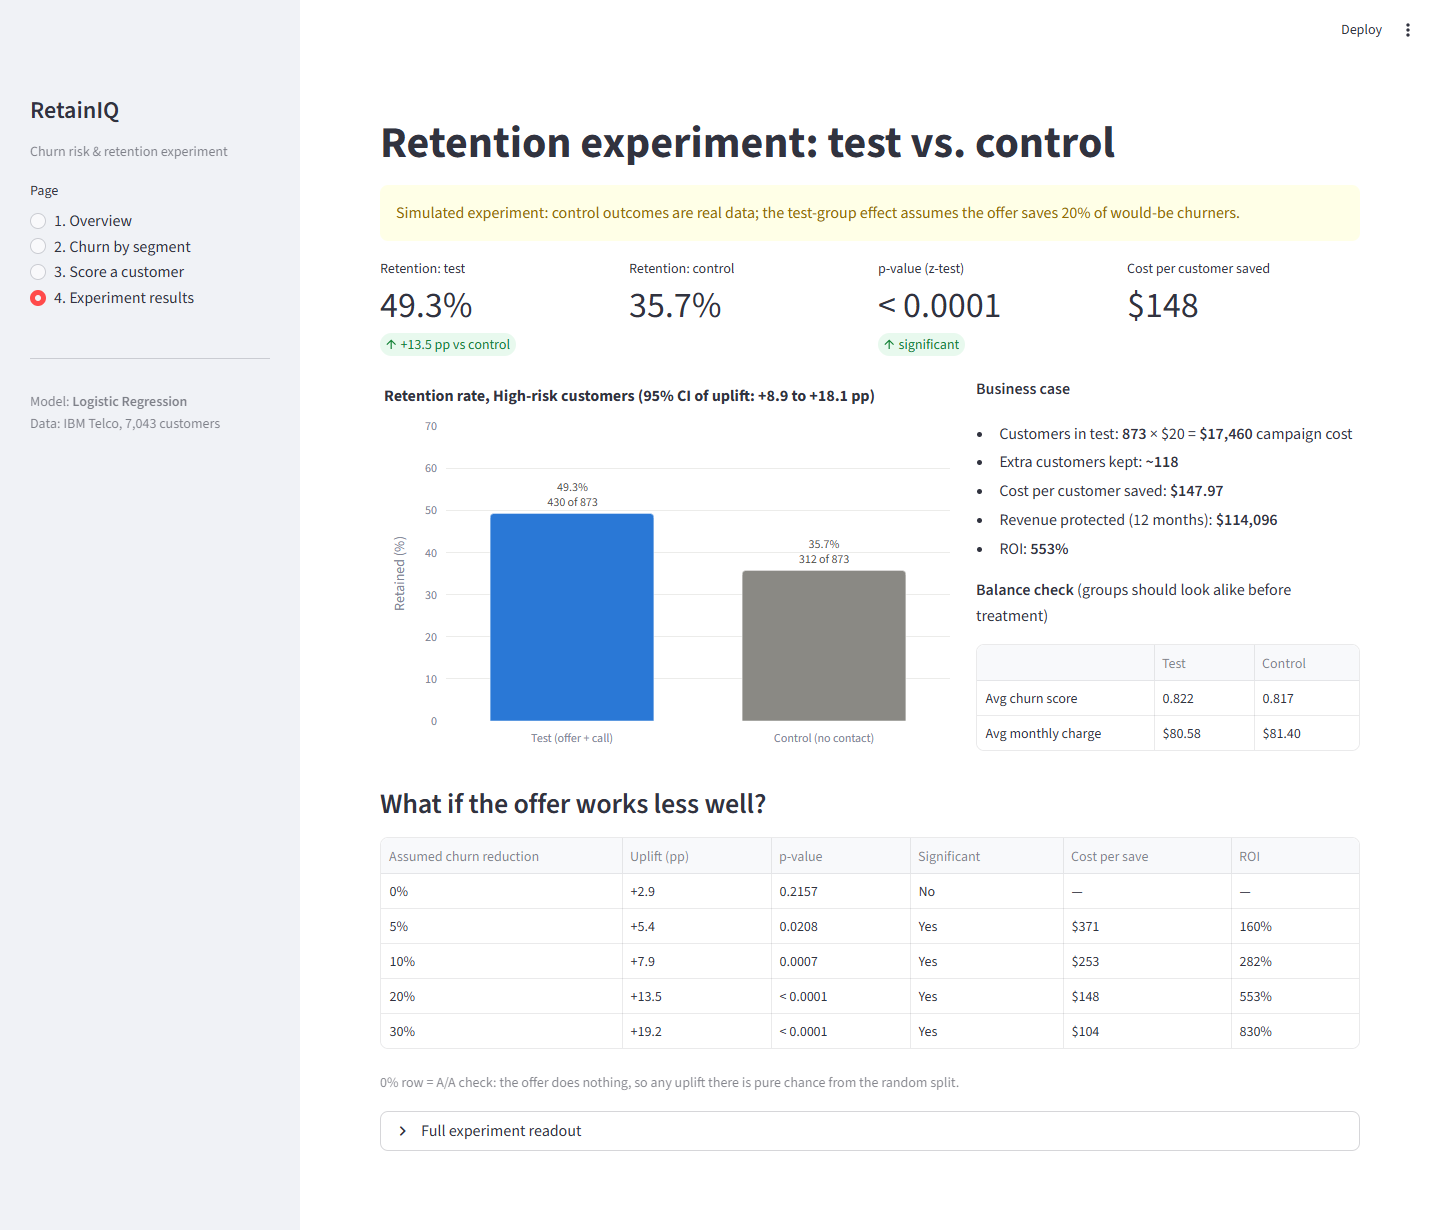
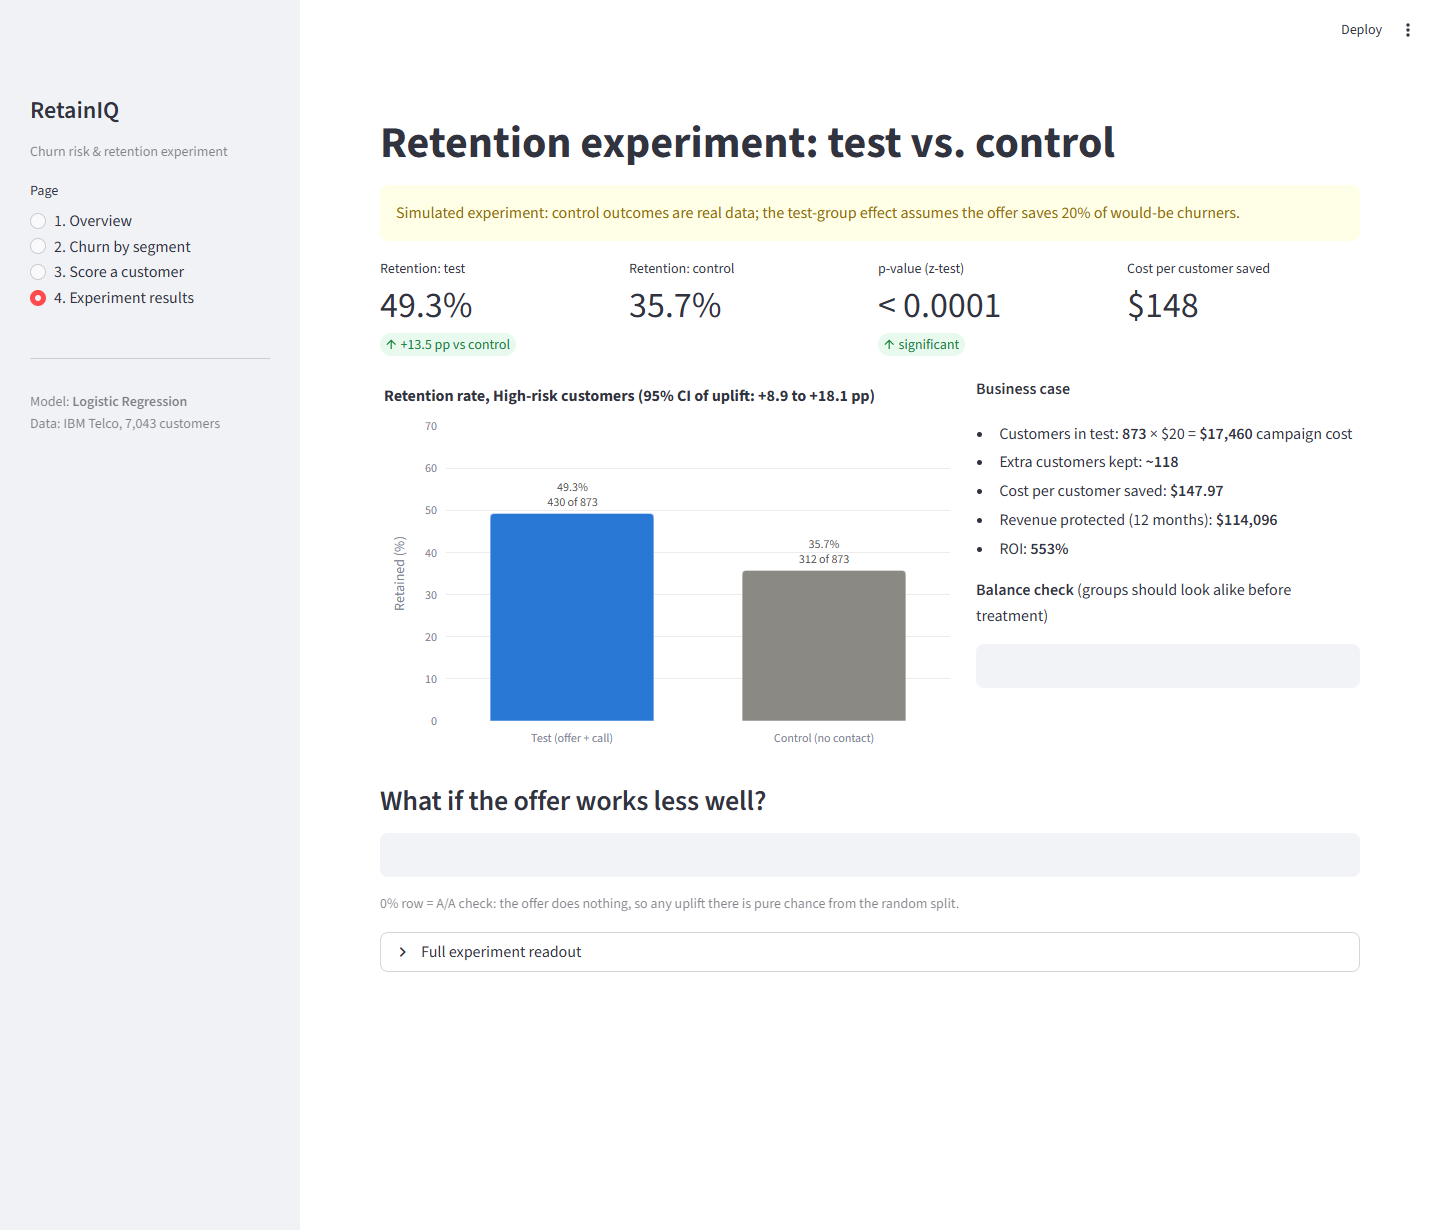
Make dashboard deployable to Streamlit Community Cloud
- Pin exact package versions so the saved model loads on the server
- Replace removed use_container_width with width="stretch"
- Fix gauge clipping, refresh screenshots, add repo URL to README

diff --git a/app/streamlit_app.py b/app/streamlit_app.py
@@ -106,7 +106,7 @@ if page.startswith("1"):
             hovertemplate="%{x} risk<br>%{y:,} customers<extra></extra>"))
         fig.update_layout(title="Customers per risk group (label shows actual churn rate)")
         fig.update_yaxes(title="Customers", range=[0, seg["customers"].max() * 1.3])
-        st.plotly_chart(style(fig), use_container_width=True)
+        st.plotly_chart(style(fig), width="stretch")
     with right:
         st.markdown("**What each group means**")
         st.markdown(
@@ -119,7 +119,7 @@ if page.startswith("1"):
         st.dataframe(seg[["risk_group", "customers", "actual_churn_rate_pct", "share_of_all_churners_pct"]]
                      .rename(columns={"risk_group": "Risk", "customers": "Customers",
                                       "actual_churn_rate_pct": "Churn %", "share_of_all_churners_pct": "% of churners"})
-                     .round(1), hide_index=True, use_container_width=True)
+                     .round(1), hide_index=True, width="stretch")
 
 # --------------------------------------------------------------------- page 2
 elif page.startswith("2"):
@@ -130,12 +130,12 @@ elif page.startswith("2"):
     st.caption(f"{len(df):,} customers selected")
     a, b = st.columns(2)
     a.plotly_chart(churn_bar(df, "Contract", ["Month-to-month", "One year", "Two year"], "By contract type"),
-                   use_container_width=True)
-    b.plotly_chart(churn_bar(df, "tenure_group", TENURE_LABELS, "By tenure group"), use_container_width=True)
+                   width="stretch")
+    b.plotly_chart(churn_bar(df, "tenure_group", TENURE_LABELS, "By tenure group"), width="stretch")
     a, b = st.columns(2)
     pay_order = df.groupby("PaymentMethod")["Churn"].mean().sort_values(ascending=False).index.tolist()
-    a.plotly_chart(churn_bar(df, "PaymentMethod", pay_order, "By payment method"), use_container_width=True)
-    b.plotly_chart(churn_bar(df, "charge_bucket", CHARGE_LABELS, "By monthly-charge bucket"), use_container_width=True)
+    a.plotly_chart(churn_bar(df, "PaymentMethod", pay_order, "By payment method"), width="stretch")
+    b.plotly_chart(churn_bar(df, "charge_bucket", CHARGE_LABELS, "By monthly-charge bucket"), width="stretch")
 
     st.subheader("Contract × tenure heatmap (churn %)")
     pv = (df.pivot_table(index="Contract", columns="tenure_group", values="Churn", aggfunc="mean")
@@ -143,13 +143,13 @@ elif page.startswith("2"):
     fig = px.imshow(pv, text_auto=".1f", color_continuous_scale=["#cde2fb", "#2a78d6", "#0d366b"],
                     aspect="auto", labels=dict(color="Churn %"))
     fig.update_traces(hovertemplate="%{y} · %{x}<br>Churn %{z:.1f}%<extra></extra>")
-    st.plotly_chart(style(fig, 300), use_container_width=True)
+    st.plotly_chart(style(fig, 300), width="stretch")
 
     st.subheader("Top 10 churn drivers (SHAP)")
     drivers = pd.read_csv(config.REPORTS_DIR / "top10_churn_drivers.csv")
     st.dataframe(drivers[["plain_english", "mean_abs_shap"]]
                  .rename(columns={"plain_english": "Driver", "mean_abs_shap": "Importance"}),
-                 hide_index=True, use_container_width=True)
+                 hide_index=True, width="stretch")
 
 # --------------------------------------------------------------------- page 3
 elif page.startswith("3"):
@@ -212,7 +212,7 @@ elif page.startswith("3"):
                    "steps": [{"range": [0, 30], "color": "#d6f0d6"}, {"range": [30, 70], "color": "#fdeccc"},
                              {"range": [70, 100], "color": "#f5d0d0"}]}))
         gauge.update_layout(height=250, margin=dict(l=30, r=30, t=30, b=20))
-        m2.plotly_chart(gauge, use_container_width=True)
+        m2.plotly_chart(gauge, width="stretch")
         if inp["InternetService"] == "No" or inp["PhoneService"] == "No":
             st.caption("Note: add-on / multiple-line answers were set automatically to match the services chosen.")
 
@@ -242,7 +242,7 @@ else:
         fig.update_layout(title=f"Retention rate, High-risk customers (95% CI of uplift: "
                                 f"{e['ci_low_pp']:+.1f} to {e['ci_high_pp']:+.1f} pp)")
         fig.update_yaxes(title="Retained (%)", range=[0, 70])
-        st.plotly_chart(style(fig, 380), use_container_width=True)
+        st.plotly_chart(style(fig, 380), width="stretch")
     with right:
         st.markdown("**Business case**")
         # "\$" stops Streamlit reading $...$ as a maths formula.
@@ -258,7 +258,7 @@ else:
             "": ["Avg churn score", "Avg monthly charge"],
             "Test": [f"{e['balance_score_test']:.3f}", f"${e['balance_charge_test']:.2f}"],
             "Control": [f"{e['balance_score_control']:.3f}", f"${e['balance_charge_control']:.2f}"]}),
-            hide_index=True, use_container_width=True)
+            hide_index=True, width="stretch")
 
     st.subheader("What if the offer works less well?")
     sens = pd.DataFrame(results["experiment_sensitivity"])
@@ -269,7 +269,7 @@ else:
         "Significant": sens["significant"].map({True: "Yes", False: "No"}),
         "Cost per save": sens["cost_per_customer_saved"].map(lambda v: "—" if pd.isna(v) else f"${v:,.0f}"),
         "ROI": sens["roi_pct"].map(lambda v: "—" if pd.isna(v) else f"{v:,.0f}%")})
-    st.dataframe(sens_view, hide_index=True, use_container_width=True)
+    st.dataframe(sens_view, hide_index=True, width="stretch")
     st.caption("0% row = A/A check: the offer does nothing, so any uplift there is pure chance from the random split.")
     with st.expander("Full experiment readout"):
         st.markdown((config.REPORTS_DIR / "experiment_readout.md").read_text(encoding="utf-8"))

diff --git a/README.md b/README.md
@@ -176,7 +176,7 @@ RetainIQ/
 ## 8. How to run
 
 ```bash
-git clone https://github.com/<your-username>/RetainIQ.git
+git clone https://github.com/AditiShindadkar/RetainIQ.git
 cd RetainIQ
 python -m venv .venv && .venv\Scripts\activate      # macOS/Linux: source .venv/bin/activate
 pip install -r requirements.txt
